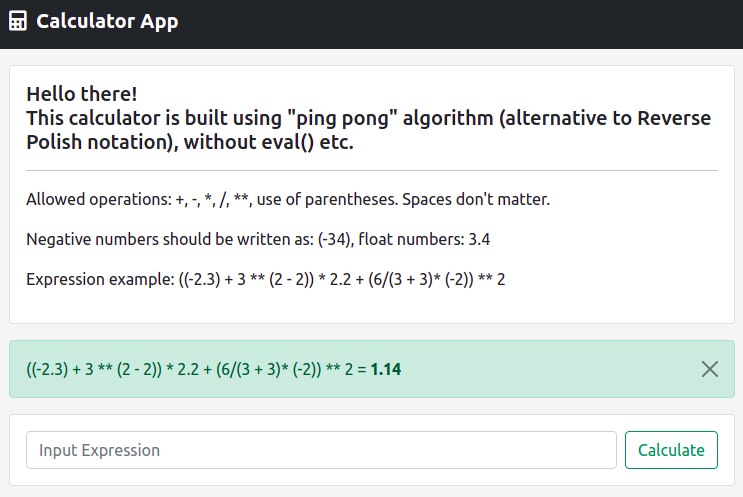
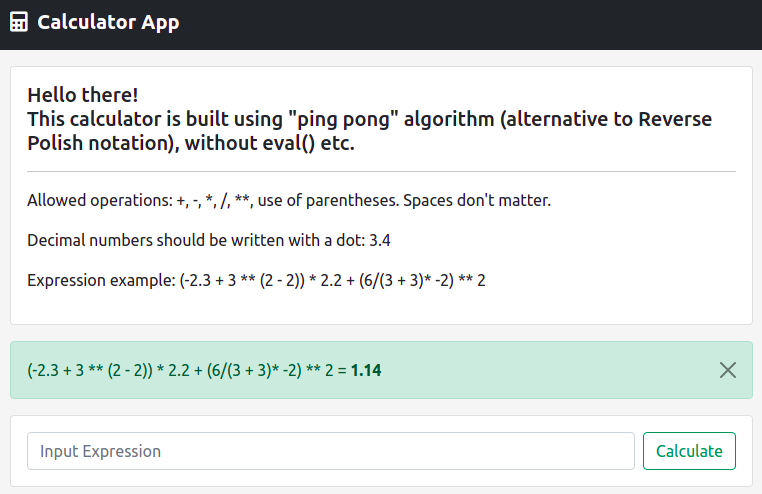
refactored clear_and_convert(),changed img.png and project description in readme, html

diff --git a/calculator/templates/calculator/main.html b/calculator/templates/calculator/main.html
@@ -35,8 +35,8 @@
                   (alternative to Reverse Polish notation), without eval() etc.</h5>
                 <hr>
                 <p>Allowed operations: +, -, *, /, **, use of parentheses. Spaces don't matter.</p>
-                <p>Negative numbers should be written as: (-34), float numbers: 3.4</p>
-                <p>Expression example: ((-2.3) + 3 ** (2 - 2)) * 2.2 + (6/(3 + 3)* (-2)) ** 2</p>
+                <p>Decimal numbers should be written with a dot: 3.4</p>
+                <p>Expression example: (-2.3 + 3 ** (2 - 2)) * 2.2 + (6/(3 + 3)* -2) ** 2</p>
               </div>
             </div>
           </div>

diff --git a/calculator/utils.py b/calculator/utils.py
@@ -100,7 +100,7 @@ def clear_and_convert(string_math_expression):
     for i, element in enumerate(cleared_expression):
         if element.isdigit():
             number += element
-            if i == len_cleared_expression - 1 or not cleared_expression[i + 1].isdigit():
+            if i == len_cleared_expression - 1 or not cleared_expression[i+1].isdigit():
                 num_exp.append(int(number))
                 number = ''
         else:
@@ -109,43 +109,46 @@ def clear_and_convert(string_math_expression):
     while '.' in num_exp:
         i = num_exp.index('.')
         if (i != 0 and i != len(num_exp) - 1
-                and isinstance(num_exp[i - 1], int)
-                and isinstance(num_exp[i + 1], int)):
-            float_number = float(str(num_exp[i - 1]) + num_exp[i] + str(num_exp[i + 1]))
-            num_exp[i + 1] = float_number
-            del num_exp[i - 1:i + 1]
+                and isinstance(num_exp[i-1], int)
+                and isinstance(num_exp[i+1], int)):
+            float_number = float(str(num_exp[i-1]) + num_exp[i] + str(num_exp[i+1]))
+            num_exp[i+1] = float_number
+            del num_exp[i-1:i+1]
         else:
             raise ValueError('Something wrong with ".".')
-    # find negative numbers and update list num_exp
+    # find negative numbers and create new list with negative numbers
+    neg_exp = []
+    excluded_index = None
+    neg_check_list = ['+', '-', '*', '/', '(']
     len_num_exp = len(num_exp)
-    float_negative_exp = []
-    not_append_index = None
-    negative_check_list = ['+', '-', '*', '/', '(']
     for i, element in enumerate(num_exp):
         if element == '-':
             if i == len_num_exp - 1:
                 raise ValueError('Something wrong with "-".')
-            elif isinstance(num_exp[i + 1], int) and (i == 0 or num_exp[i - 1] in negative_check_list):
-                n_number = int('-' + str(num_exp[i + 1]))
-                float_negative_exp.append(n_number)
-                not_append_index = i + 1
-            elif isinstance(num_exp[i + 1], float) and (i == 0 or num_exp[i - 1] in negative_check_list):
-                n_number = float('-' + str(num_exp[i + 1]))
-                float_negative_exp.append(n_number)
-                not_append_index = i + 1
+            elif isinstance(num_exp[i+1], int) and (i == 0 or num_exp[i-1] in neg_check_list):
+                n_number = int('-' + str(num_exp[i+1]))
+                neg_exp.append(n_number)
+                excluded_index = i + 1
+            elif isinstance(num_exp[i+1], float) and (i == 0 or num_exp[i-1] in neg_check_list):
+                n_number = float('-' + str(num_exp[i+1]))
+                neg_exp.append(n_number)
+                excluded_index = i + 1
             else:
-                float_negative_exp.append(element)
-        elif i != not_append_index:
-            float_negative_exp.append(element)
+                neg_exp.append(element)
+        elif i != excluded_index:
+            neg_exp.append(element)
     # find exponent operator and create new list with final converted expression
     converted_expression = []
     i = 0
-    while i < len(num_exp):
-        if num_exp[i] == '*' and i != len(num_exp)-1 and num_exp[i+1] == '*':
+    len_neg_exp = len(neg_exp)
+    while i < len_neg_exp:
+        if (i == 0 or i == len_neg_exp - 1) and neg_exp[i] == '*':
+            raise ValueError('Something wrong with "*".')
+        elif neg_exp[i] == '*' and neg_exp[i+1] == '*':
             converted_expression.append('**')
             i += 2
         else:
-            converted_expression.append(num_exp[i])
+            converted_expression.append(neg_exp[i])
             i += 1
     return converted_expression
 

diff --git a/README.md b/README.md
@@ -1,7 +1,8 @@
 ## CalculatorApp
 This calculator is built using "ping pong" algorithm (alternative to Reverse Polish notation), without eval() etc.\
 Allowed operations: +, -, *, /, **, use of parentheses.  Spaces don't matter.\
-Negative numbers should be written as: (-34), float numbers: 3.4
+Decimal numbers should be written with a dot: 3.4.
 
 Website:[calculator-mo](https://calculator-mo.herokuapp.com/)
+
 ![image](https://github.com/anvandev/Calculator/blob/master/static/img/img.png)
